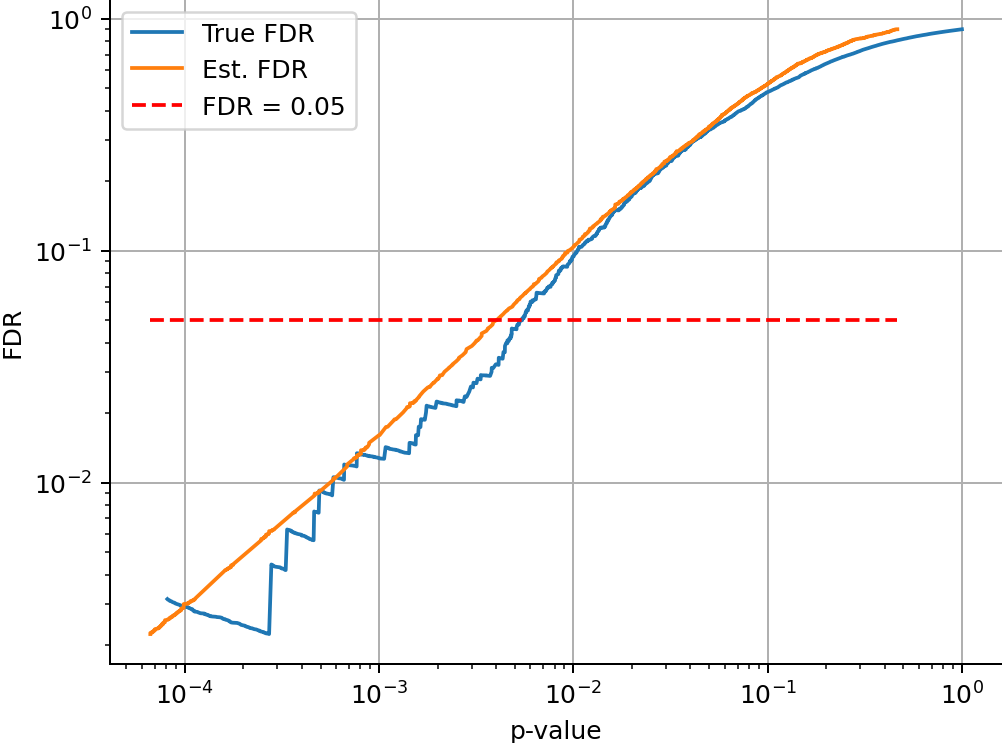
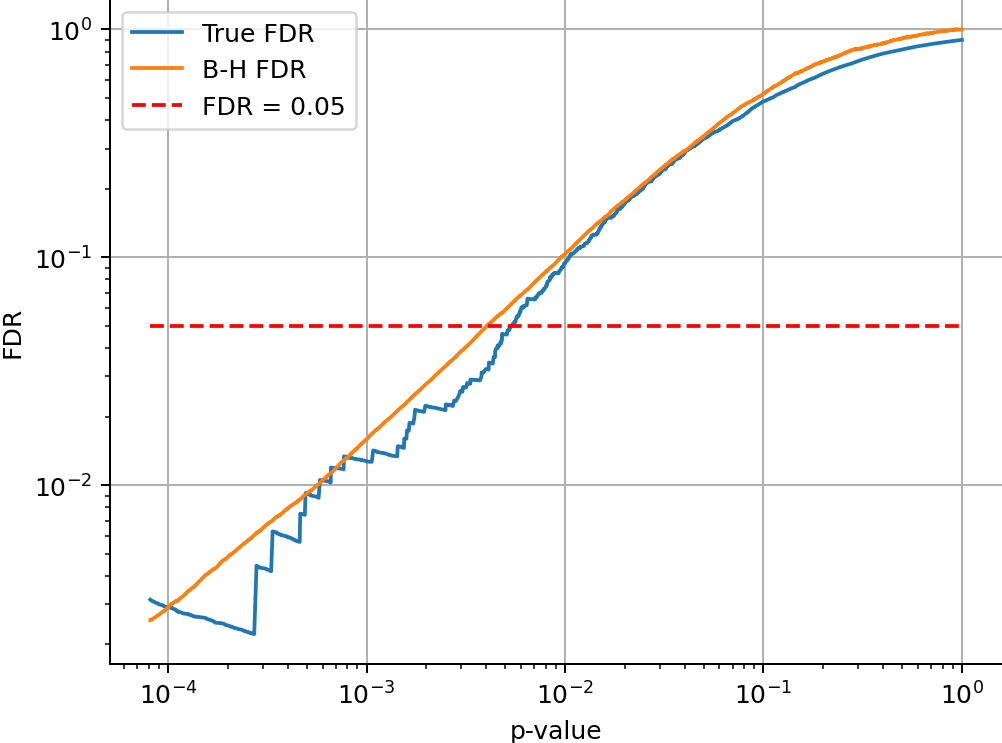
FDR

diff --git a/20200628-FDR/fdr1.py b/20200628-FDR/fdr1.py
@@ -1,10 +1,11 @@
 # RA, 2020-06-28
 
 """
-Computational experiment confirming the FDR correction.
-Based on [1].
+Computational experiment confirming the FDR correction [1].
+Based on [2].
 
-[1] https://cpb-us-w2.wpmucdn.com/blog.nus.edu.sg/dist/0/3425/files/2018/10/Understanding-Benjamini-Hochberg-method-2ijolq0.pdf
+[1] Benjamini and Hochberg, Controlling the false discovery rate, J R Statist Soc B, 1995
+[2] https://cpb-us-w2.wpmucdn.com/blog.nus.edu.sg/dist/0/3425/files/2018/10/Understanding-Benjamini-Hochberg-method-2ijolq0.pdf
 """
 
 import numpy as np
@@ -14,10 +15,14 @@ from inclusive import range
 from plox import Plox
 from tcga.utils import download
 from pathlib import Path
+from itertools import count
 
-# Reference [1]
-slides = "https://cpb-us-w2.wpmucdn.com/blog.nus.edu.sg/dist/0/3425/files/2018/10/Understanding-Benjamini-Hochberg-method-2ijolq0.pdf"
-download(slides).to(rel_path="cache/download").now
+# Reference [2]
+download(
+    "https://cpb-us-w2.wpmucdn.com/blog.nus.edu.sg/dist/0/3425/files/2018/10/Understanding-Benjamini-Hochberg-method-2ijolq0.pdf"
+).to(
+    rel_path="cache/download"
+).now
 
 
 def get_obs():
@@ -47,7 +52,11 @@ def get_obs():
 
 
 def pvalues(obs):
-    # https://www.itl.nist.gov/div898/handbook/eda/section3/eda353.htm (http://archive.ph/bzplE)
+    """
+    `obs` is a list of pairs [g1, g2]
+    where g1 and g2 are two groups of observations.
+    https://www.itl.nist.gov/div898/handbook/eda/section3/eda353.htm (http://archive.ph/bzplE)
+    """
 
     ts = [
         (np.mean(g1) - np.mean(g2)) / np.sqrt(np.var(g1) / len(g1) + np.var(g2) / len(g2))
@@ -76,6 +85,13 @@ def pvalues(obs):
     return ps
 
 
+def to_fdr(pp) -> list:
+    (_, _, aa) = map(list, zip(
+        *sorted((i, p, p / r * len(pp)) for (r, (p, i)) in zip(count(1), sorted(zip(pp, count(1)))))
+    ))
+    return aa
+
+
 def main():
     (obs, h0) = get_obs()
     ps = pvalues(obs)
@@ -87,19 +103,19 @@ def main():
     print(F"There are {sum(ps <= alpha)} p-values less or equal {alpha}.")
 
     # The true False Discovery Rate for the corresponding p-values `ps`
-    fdr = np.cumsum(h0) / ranks
+    fdr_true = np.cumsum(h0) / ranks
 
-    # Benjamini-Hochberg estimate: FDR -> p-value
-    fdr_est = sorted(fdr[fdr > 0])
-    ps_est = [max(ps[ps <= (a / len(ranks) * ranks)]) for a in fdr_est]
+    # Benjamini-Hochberg estimate: p-value -> FDR
+    fdr_est = np.asarray(to_fdr(ps))
 
     fig_path = Path(__file__).parent / "figs"
     fig_path.mkdir(parents=True, exist_ok=True)
 
     with Plox() as px:
-        px.a.plot(ps[fdr > 0], fdr[fdr > 0], label="True FDR")
-        px.a.plot(ps_est, fdr_est, label="B-H FDR")
-        px.a.plot([min(ps_est), max(ps_est)], [alpha, alpha], "r--", label=(F"FDR = {alpha}"))
+        ii = (fdr_true > 0)  # because of log-log plot
+        px.a.plot(ps[ii], fdr_true[ii], label="True FDR")
+        px.a.plot(ps[ii], fdr_est[ii], label="B-H FDR")
+        px.a.plot([min(ps[ii]), max(ps[ii])], [alpha, alpha], "r--", label=(F"FDR = {alpha}"))
         px.a.grid()
         px.a.set_xscale('log')
         px.a.set_yscale('log')
